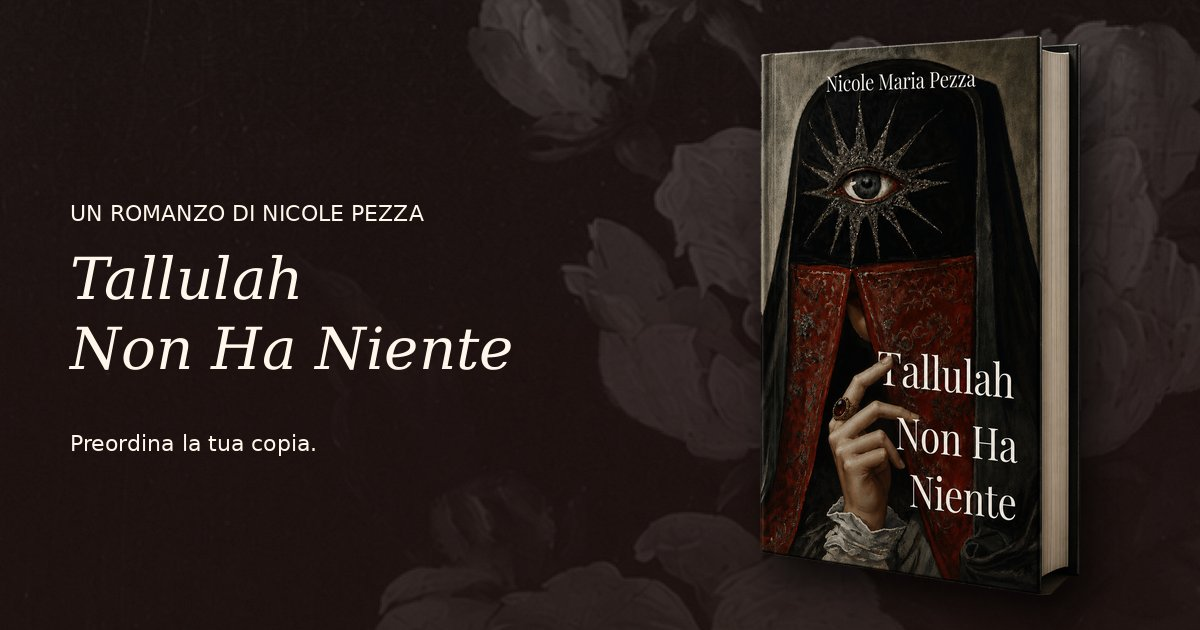
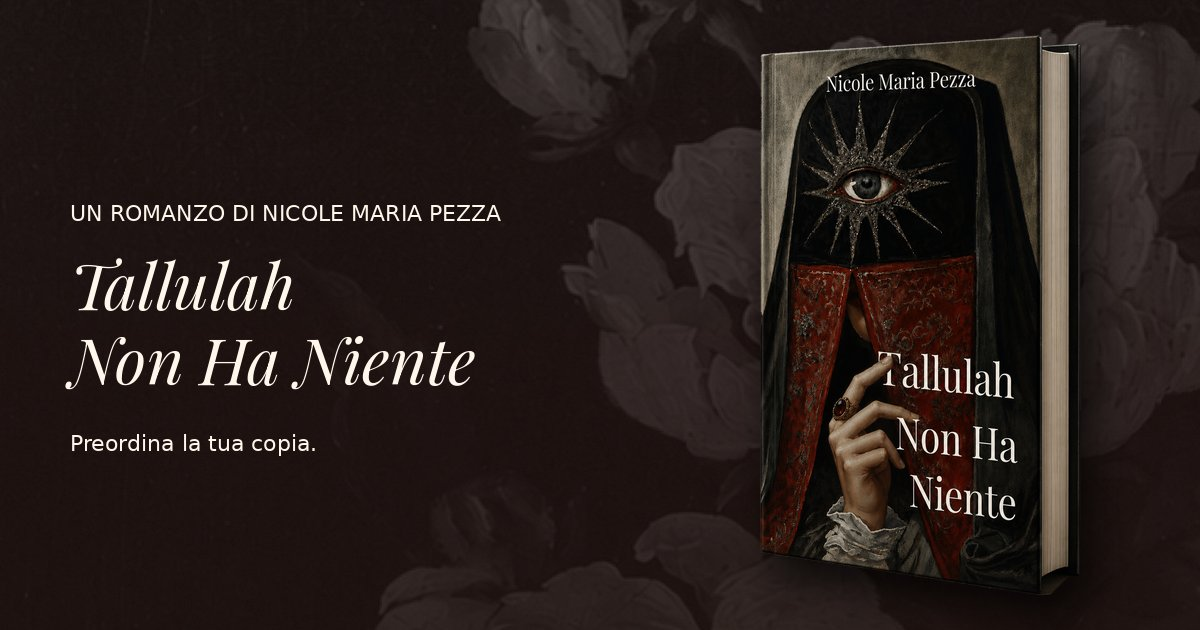
Italian copy edits, full name throughout, Italian privacy page
Claude-Session: https://claude.ai/code/session_01ECSoSUfErtExioGc3A9RaZ

Changed region(s): [[0.0617, 0.3921, 0.4317, 0.6333], [0.2775, 0.3016, 0.4317, 0.3619]]

diff --git a/home-italian/index.html b/home-italian/index.html
@@ -3,15 +3,15 @@
 <head>
 <meta charset="utf-8">
 <meta name="viewport" content="width=device-width, initial-scale=1">
-<title>Tallulah Non Ha Niente · un romanzo di Nicole Pezza</title>
-<meta name="description" content="Preordina Tallulah Non Ha Niente, un romanzo di Nicole Pezza sulla devozione, la crudeltà, e il terribile desiderio di consegnarsi a qualcosa di assoluto.">
+<title>Tallulah Non Ha Niente · un romanzo di Nicole Maria Pezza</title>
+<meta name="description" content="Preordina Tallulah Non Ha Niente, un romanzo di Nicole Maria Pezza sulla devozione, la crudeltà e il terribile desiderio di consegnarsi a qualcosa di assoluto.">
 
 <link rel="canonical" href="https://nicolemariapezza.com/home-italian/">
 <link rel="alternate" hreflang="en" href="https://nicolemariapezza.com/">
 <link rel="alternate" hreflang="it" href="https://nicolemariapezza.com/home-italian/">
 <meta property="og:type" content="book">
-<meta property="og:title" content="Tallulah Non Ha Niente · Nicole Pezza">
-<meta property="og:description" content="Un romanzo sulla devozione, la crudeltà, e il terribile desiderio di consegnarsi a qualcosa di assoluto.">
+<meta property="og:title" content="Tallulah Non Ha Niente · Nicole Maria Pezza">
+<meta property="og:description" content="Un romanzo sulla devozione, la crudeltà e il terribile desiderio di consegnarsi a qualcosa di assoluto.">
 <meta property="og:image" content="https://nicolemariapezza.com/images/share-it.jpg">
 <meta property="og:url" content="https://nicolemariapezza.com/home-italian/">
 <meta name="twitter:card" content="summary_large_image">
@@ -41,18 +41,18 @@
 <main>
   <section class="hero">
     <div class="hero-head">
-      <p class="kicker">Un romanzo di Nicole Pezza</p>
+      <p class="kicker">Un romanzo di Nicole Maria Pezza</p>
       <h1>Tallulah Non Ha Niente</h1>
     </div>
 
     <figure class="hero-book">
-      <img src="../images/book-it.webp" alt="Tallulah Non Ha Niente di Nicole Pezza" width="762" height="1330" fetchpriority="high">
+      <img src="../images/book-it.webp" alt="Tallulah Non Ha Niente di Nicole Maria Pezza" width="762" height="1330" fetchpriority="high">
     </figure>
 
     <div class="hero-body">
       <div class="blurb">
         <p>Consumata dalla perdita e da uno struggimento che non trova sfogo, Tallulah attraversa un mondo in rovina, insinuandosi nelle vite degli uomini come santa, arma, cortigiana, mito e testimone in egual misura.</p>
-        <p><em>Tallulah Non Ha Niente</em> è un romanzo sulla devozione, la crudeltà, e il terribile desiderio di consegnarsi a qualcosa di assoluto.</p>
+        <p><em>Tallulah Non Ha Niente</em> è un romanzo sulla devozione, la crudeltà e il terribile desiderio di consegnarsi a qualcosa di assoluto.</p>
       </div>
 
       <form class="preorder" id="preorder" data-endpoint="https://formsubmit.co/ajax/nicole.pezza2001@gmail.com" data-error="Qualcosa è andato storto. Riprova." novalidate>
@@ -98,7 +98,7 @@
     <details class="reader reveal">
       <summary>
         <span class="kicker">Leggi le prime pagine</span>
-        <span class="reader-title">Capitolo Uno</span>
+        <span class="reader-title">Capitolo primo</span>
         <span class="chev" aria-hidden="true"></span>
       </summary>
       <div class="excerpt-text">
@@ -123,7 +123,7 @@
     <div class="about-text">
       <h2>Sull’autrice</h2>
       <div class="bio">
-        <p>Nicole Pezza è una scrittrice italiana che vive tra una città e l’altra e scrive delle cose che ti seguono comunque, come la devozione, la violenza e il desiderio.</p>
+        <p>Nicole Maria Pezza è una scrittrice italiana che vive con la valigia tra una città e l’altra e scrive delle cose che ti seguono ovunque tu vada, come la devozione, la violenza, il desiderio.</p>
         <p>La sua scrittura è influenzata dai mondi febbrili del realismo magico sudamericano, in particolare da García Márquez e Isabel Allende, e dall’ineluttabilità dei grandi romanzi russi.</p>
         <p>Ha scritto <em>Tallulah Non Ha Niente</em> spinta da un interesse per il senso di sradicamento, la dissociazione del sé e quella sensazione di vivere nel mondo come se il proprio posto fosse altrove.</p>
       </div>
@@ -136,8 +136,8 @@
 </main>
 
 <footer>
-  <p>© 2026 Nicole Pezza. Tutti i diritti riservati.</p>
-  <nav><a href="https://substack.com/@nicolepezza" target="_blank" rel="noopener">Substack</a><a href="https://medium.com/@nicolemariapezza" target="_blank" rel="noopener">Medium</a><a href="../privacy-policy/">Privacy</a><a href="../">English</a></nav>
+  <p>© 2026 Nicole Maria Pezza. Tutti i diritti riservati.</p>
+  <nav><a href="https://substack.com/@nicolepezza" target="_blank" rel="noopener">Substack</a><a href="https://medium.com/@nicolemariapezza" target="_blank" rel="noopener">Medium</a><a href="../privacy-policy/it/">Privacy</a><a href="../">English</a></nav>
 </footer>
 
 <div class="thanks" role="dialog" aria-modal="true" aria-label="Grazie">

diff --git a/privacy-policy/it/index.html b/privacy-policy/it/index.html
@@ -1,0 +1,34 @@
+<!doctype html>
+<html lang="it">
+<head>
+<meta charset="utf-8">
+<meta name="viewport" content="width=device-width, initial-scale=1">
+<title>Privacy · Nicole Maria Pezza</title>
+<link rel="icon" href="../../images/favicon.svg" type="image/svg+xml">
+<link rel="icon" href="../../images/favicon.png" sizes="32x32">
+<link rel="apple-touch-icon" href="../../images/apple-touch-icon.png">
+<link rel="manifest" href="../../site.webmanifest">
+<link rel="alternate" hreflang="en" href="https://nicolemariapezza.com/privacy-policy/">
+<link rel="preconnect" href="https://fonts.googleapis.com">
+<link rel="preconnect" href="https://fonts.gstatic.com" crossorigin>
+<link href="https://fonts.googleapis.com/css2?family=Parkinsans:wght@300;400;500&family=Playfair+Display:ital,wght@1,400;1,500&display=swap" rel="stylesheet">
+<link rel="stylesheet" href="../../assets/style.css">
+</head>
+<body>
+  <header class="topbar"><a class="name" href="../../home-italian/"><img class="mark" src="../../images/mark.svg" alt="" width="26" height="26">Nicole Maria Pezza</a><nav class="lang" aria-label="Lingua"><a href="../" hreflang="en" lang="en">EN</a><a href="./" aria-current="true">IT</a></nav></header>
+  <main class="text-page">
+    <h1>Privacy</h1>
+    <p>Questo è nicolemariapezza.com, il sito d’autrice di Nicole Maria Pezza.</p>
+
+    <h2>Quali dati raccogliamo</h2>
+    <p>Se inserisci il tuo indirizzo email nel modulo di preordine, questo viene inviato all’autrice via email, così da poterti avvisare quando il romanzo sarà disponibile. Non viene usato per nient’altro e non viene mai venduto né condiviso.</p>
+
+    <h2>Servizi utilizzati dal sito</h2>
+    <p>I moduli vengono recapitati tramite <a href="https://formsubmit.co" rel="noopener">FormSubmit</a>. I caratteri tipografici sono caricati da Google Fonts e il sito è ospitato su GitHub Pages. Come qualsiasi server web, questi servizi possono registrare informazioni tecniche di base, come il tuo indirizzo IP. Il sito non usa cookie, né strumenti di analisi o di tracciamento.</p>
+
+    <h2>I tuoi diritti</h2>
+    <p>Per far cancellare il tuo indirizzo email, o per sapere quali dati conserviamo su di te, scrivi a <a href="mailto:nicolemariapezza@gmail.com">nicolemariapezza@gmail.com</a>.</p>
+  </main>
+  <footer><p>© 2026 Nicole Maria Pezza. Tutti i diritti riservati.</p></footer>
+</body>
+</html>

diff --git a/privacy-policy/index.html b/privacy-policy/index.html
@@ -14,7 +14,7 @@
 <link rel="stylesheet" href="../assets/style.css">
 </head>
 <body>
-  <header class="topbar"><a class="name" href="../"><img class="mark" src="../images/mark.svg" alt="" width="26" height="26">Nicole Maria Pezza</a><nav class="lang" aria-label="Language"><a href="../" aria-current="true">Home</a></nav></header>
+  <header class="topbar"><a class="name" href="../"><img class="mark" src="../images/mark.svg" alt="" width="26" height="26">Nicole Maria Pezza</a><nav class="lang" aria-label="Language"><a href="./" aria-current="true">EN</a><a href="it/" hreflang="it" lang="it">IT</a></nav></header>
   <main class="text-page">
     <h1>Privacy Policy</h1>
     <p>This site is nicolemariapezza.com, the author website of Nicole Maria Pezza.</p>
